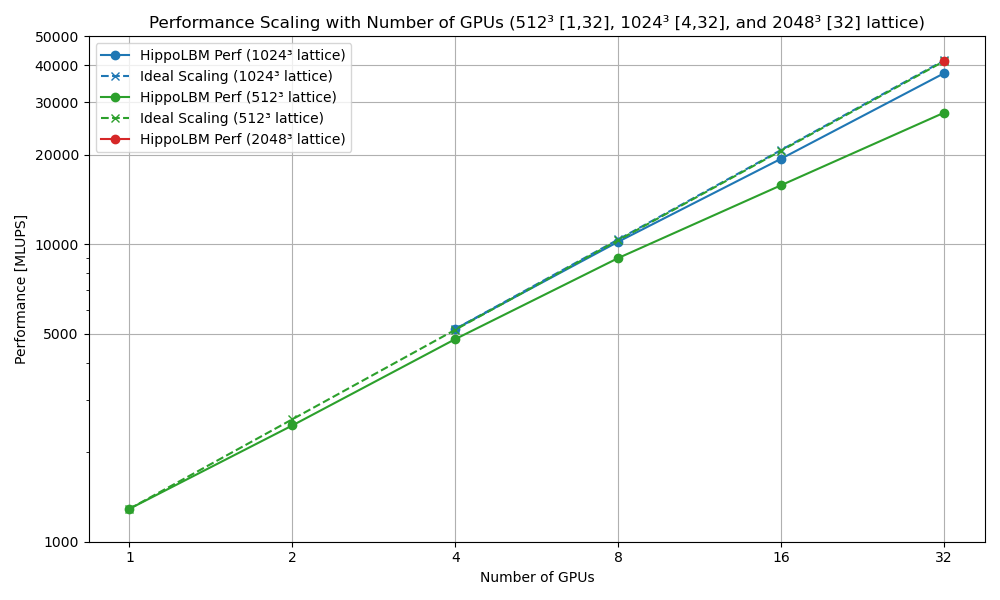
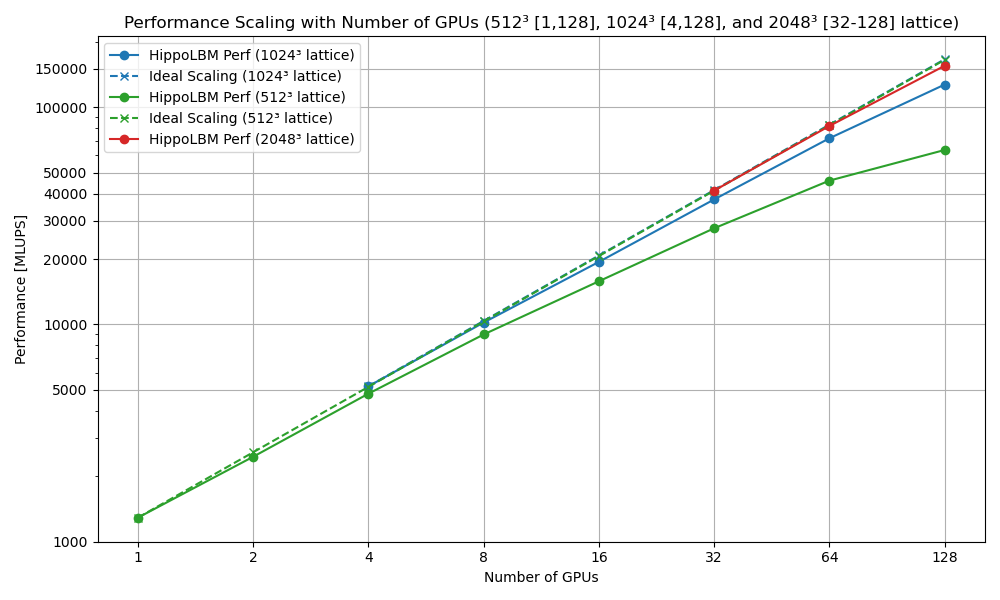
update the performance section

diff --git a/docs/source/pages/Performance.rst b/docs/source/pages/Performance.rst
@@ -75,8 +75,18 @@ Now we focus on the impact of MPI parallelization on the performance of the GPU 
 
 .. image:: ../_static/perf_couette_512_1024_2048_strong_scaling.png
 
+.. note::
+
+  512³ = 134,217,728 
+
+  1024³ = 1,073,741,824
+
+  2048³ = 8,589,934,592
+
+
 - MPI communications seem inexpensive for these domain sizes;
 - We have also see that the memory limits of the a100 GPUs (80GB) are reached for these examples, and that when this size is exceeded, the unified memory goes back and forth in the CPU RAM. This is why we skipped these points, as the simulation times were too long.
+- We also run this simulation with a domain size of 4096³ (or 68.7 billions) over 192 GPUs. MLUPS =  2.48e+05 or 248 BLUPS.
 
 To dig deeper, we'll look at the trace obtained via nsight-system and the roofline from nsigh-compute.
 
